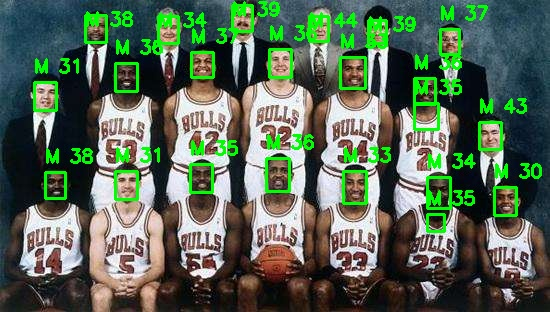
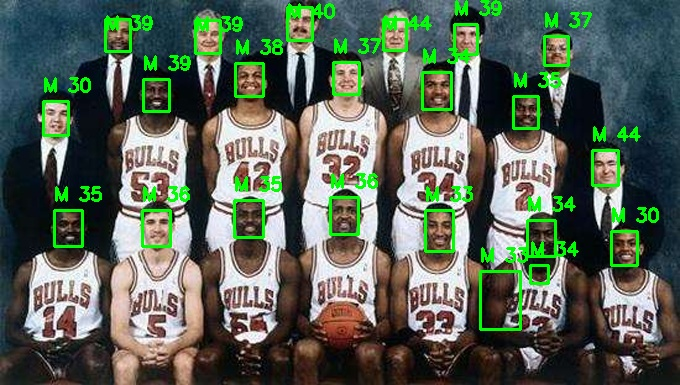
New Update

diff --git a/templates/layout.html b/templates/layout.html
@@ -28,7 +28,7 @@
               <li><a>|</a></li>
               <li><a href="/face">Age & Gender Estimation</a></li>
               <li><a>|</a></li>
-              <li><a href="/face">Person Re-ID</a></li>
+              <li><a href="/face">OCR Text Recognition</a></li>
               <li><a>|</a></li>
               <li><a href="/contact">Contact</a></li>
           </ul>
@@ -45,7 +45,7 @@
 {% endblock %}
 </body>
 {% block scripts %}
-{{ super() }}}
+{{ super() }}
 <script src="https://code.jquery.com/jquery-1.11.1.min.js"></script>
 <script type="text/javascript" src="/static/js/preview.js"></script>
 {% endblock %}

diff --git a/templates/face.html b/templates/face.html
@@ -8,7 +8,9 @@
     <hr>
     <p class="lead text-muted">Upload your own image, Deep Learning model will do following things:</p>
     <p class="lead text-muted">1. Detect faces in the image.
-    <p class="lead text-muted">2. Estimage the age and gender for each face.</p>
+    <p class="lead text-muted">2. Estimate the age and gender for each face.</p>
+    <p class="lead text-muted">Detection and estimation will normally take few seconds.</p>
+    <p class="lead text-muted">Note: The more faces in the uploaded image, the slower you will get the result.</p>
 </div>
 <hr>
 <br>

diff --git a/templates/home.html b/templates/home.html
@@ -30,7 +30,7 @@
           <div id="photo-header" class="text-center">
             <!-- PHOTO (AVATAR) -->
               <div id="text-header">
-              <h1>My name is <span>Yi Xie</span><sup>28 year</sup> and this is my resume/cv</h1>
+              <h1>My name is <span>Yi Xie</span><sup>28 years old</sup> and this is my resume/cv</h1>
             </div>
           </div>
         </div>

diff --git a/templates/contact.html b/templates/contact.html
@@ -1,0 +1,13 @@
+{% extends 'layout.html' %}
+
+{% block title %}Contact Information{% endblock %}
+
+{% block page_content %}
+<div class="container">
+    <h1 class="jumbotron-heading">Contact Me:</h1>
+    <hr>
+    <p class="lead text-muted">Email Address: yixie@zju.edu.cn</p>
+</div>
+<hr>
+<br>
+{% endblock %}

diff --git a/app.py b/app.py
@@ -28,7 +28,7 @@ bootstrap = Bootstrap(app)
 
 def allowed_file(filename):
     return '.' in filename and \
-        filename.rsplit('.', 1)[1] in ALLOWED_EXTENSIONS
+        filename.rsplit('.', 1)[1].lower() in ALLOWED_EXTENSIONS
 
 
 @app.route('/uploads/<filename>')
@@ -40,19 +40,38 @@ def uploaded_file(filename):
 def home():
     return render_template('home.html')
 
+@app.route('/contact')
+def contact():
+    return render_template('contact.html')
+
 @app.route('/face', methods=['GET', 'POST'])
 def age_gender():
+
     sample_url = url_for('uploaded_file', filename="sample.jpeg")
+
     if request.method == 'POST':
         if 'file' not in request.files:
             return render_template("face.html", error_msg="No file has been selected!")
         file = request.files['file']
         if file and allowed_file(file.filename):
+
+            with tf.Graph().as_default():
+                sess = tf.Session()
+                with sess.as_default():
+                    pnet, rnet, onet = mtcnn.create_mtcnn(sess, MTCNN_MODEL_PATH)
+
             filename = file.filename
             file_name = os.path.join(app.config['UPLOAD_FOLDER'], filename)
             file.save(file_name)
 
             start = time.time()
+
+            # Resize the orginal image to 680-width and save as jpeg
+            cv_ori = cv2.imread(file_name)
+            cv_resize = cv2.resize(cv_ori,
+                                   dsize=(680, int(cv_ori.shape[0] / cv_ori.shape[1] * 680)),
+                                   interpolation=cv2.INTER_CUBIC)
+            cv2.imwrite(file_name, cv_resize)
 
             # Read the image for face detection
             img = misc.imread(file_name)
@@ -79,15 +98,17 @@ def age_gender():
             file_url = url_for('uploaded_file', filename=filename)
             return render_template("face.html", user_image = file_url, error_msg = '')
         else:
-            return render_template("face.html", user_image=sample_url, error_msg='')
+            print('\n Incorrect upload image format.\n')
+            return render_template("face.html", user_image=sample_url, error_msg='Incorrect image format!')
     return render_template("face.html", user_image=sample_url, error_msg='')
+
 
 if __name__ == '__main__':
 
-    with tf.Graph().as_default():
-        sess = tf.Session()
-        with sess.as_default():
-            pnet, rnet, onet = mtcnn.create_mtcnn(sess, MTCNN_MODEL_PATH)
+    # Initialize the Flask Service for Product Environment
+    from werkzeug.contrib.fixers import ProxyFix
+    app.wsgi_app = ProxyFix(app.wsgi_app)
+    app.run()
 
-    # Initialize the Flask Service
-    app.run(debug=False, port=8100)
+    # Initialize the Flask Service for Debug
+    #app.run(debug=False, port=8100)

diff --git a/README.md b/README.md
@@ -1,2 +1,4 @@
 # FlaskAI
-Personal Flask Website with AI demos
+Personal Flask Website with AI demos.
+
+Including face detection and age & gender estimation demo.
